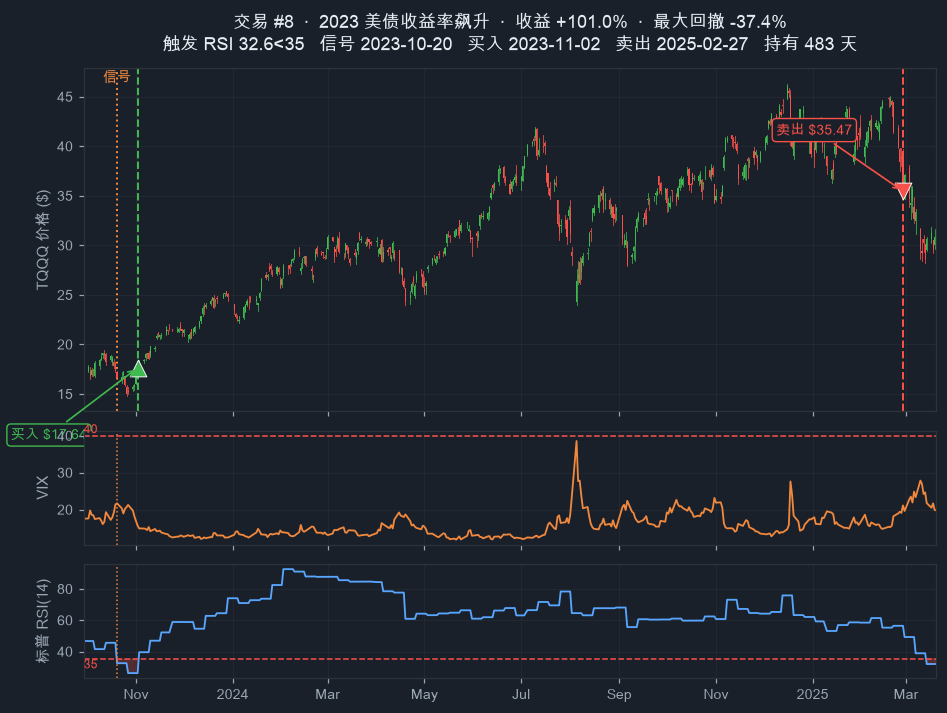
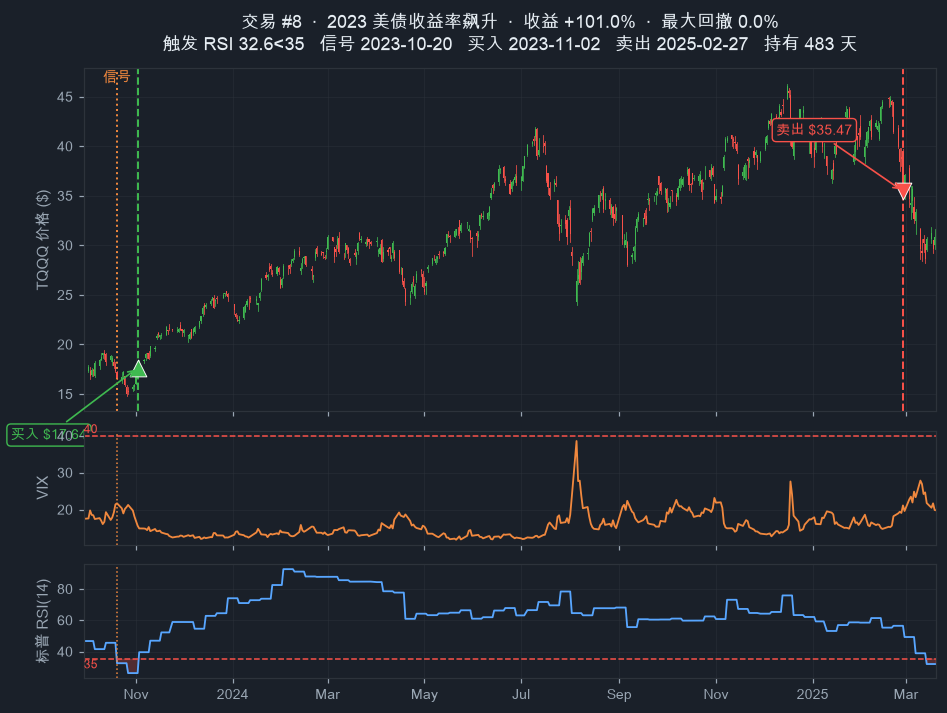
Per-trade charts: compute max DD from buy price (worst dip below entry)

Changed region(s): [[0.5512, 0.0, 0.8268, 0.0617], [0.245, 0.0, 0.5206, 0.0617]]

diff --git a/src/plot_trades.py b/src/plot_trades.py
@@ -79,9 +79,9 @@ def main():
         exit_d = pd.Timestamp(t["Exit_Date"])
         is_open = t.get("Open_At_End") is True
 
-        # max drawdown of TQQQ (close) experienced while holding the trade
+        # max drawdown measured from the buy price (worst dip below entry while holding)
         hold_close = tqqq["Close"].loc[ent:exit_d]
-        max_dd = float((hold_close / hold_close.cummax() - 1).min() * 100) if len(hold_close) else 0.0
+        max_dd = float((hold_close / t["Entry_Price"] - 1).min() * 100) if len(hold_close) else 0.0
 
         if is_open:
             # show the trailing 1 year of data, latest date flush to the right border
